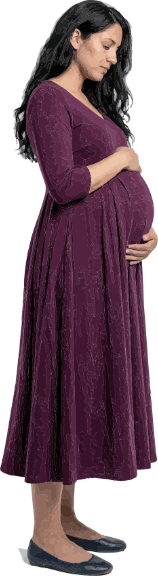
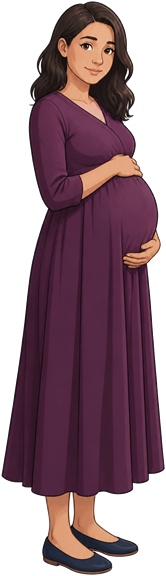
Atualiza cientista e gestante do simulador mobile

diff --git a/dilema-bonde-mobile/index.html b/dilema-bonde-mobile/index.html
@@ -1469,7 +1469,7 @@
     const FIGURE_SVG = {
       // Adultos com 96 unidades; estudantes e crianças deliberadamente menores.
       // As larguras seguem a proporção nativa e o oy mantém os pés alinhados.
-      cientista:      { href: 'assets/cientista.svg',     w: 64, h: 96, ox: -19, oy: 0 },
+      cientista:      { href: 'assets/cientista.png',     w: 64, h: 96, ox: -19, oy: 0 },
       gestante:       { href: 'assets/gestante.png',      w: 32, h: 96, ox:  -3, oy: 0 },
       idoso:          { href: 'assets/idoso.png',         w: 43, h: 96, ox:  -8, oy: 0 },
       estudante:      { href: 'assets/estudante.svg',     w: 44, h: 82, ox:  -9, oy: 14 },
